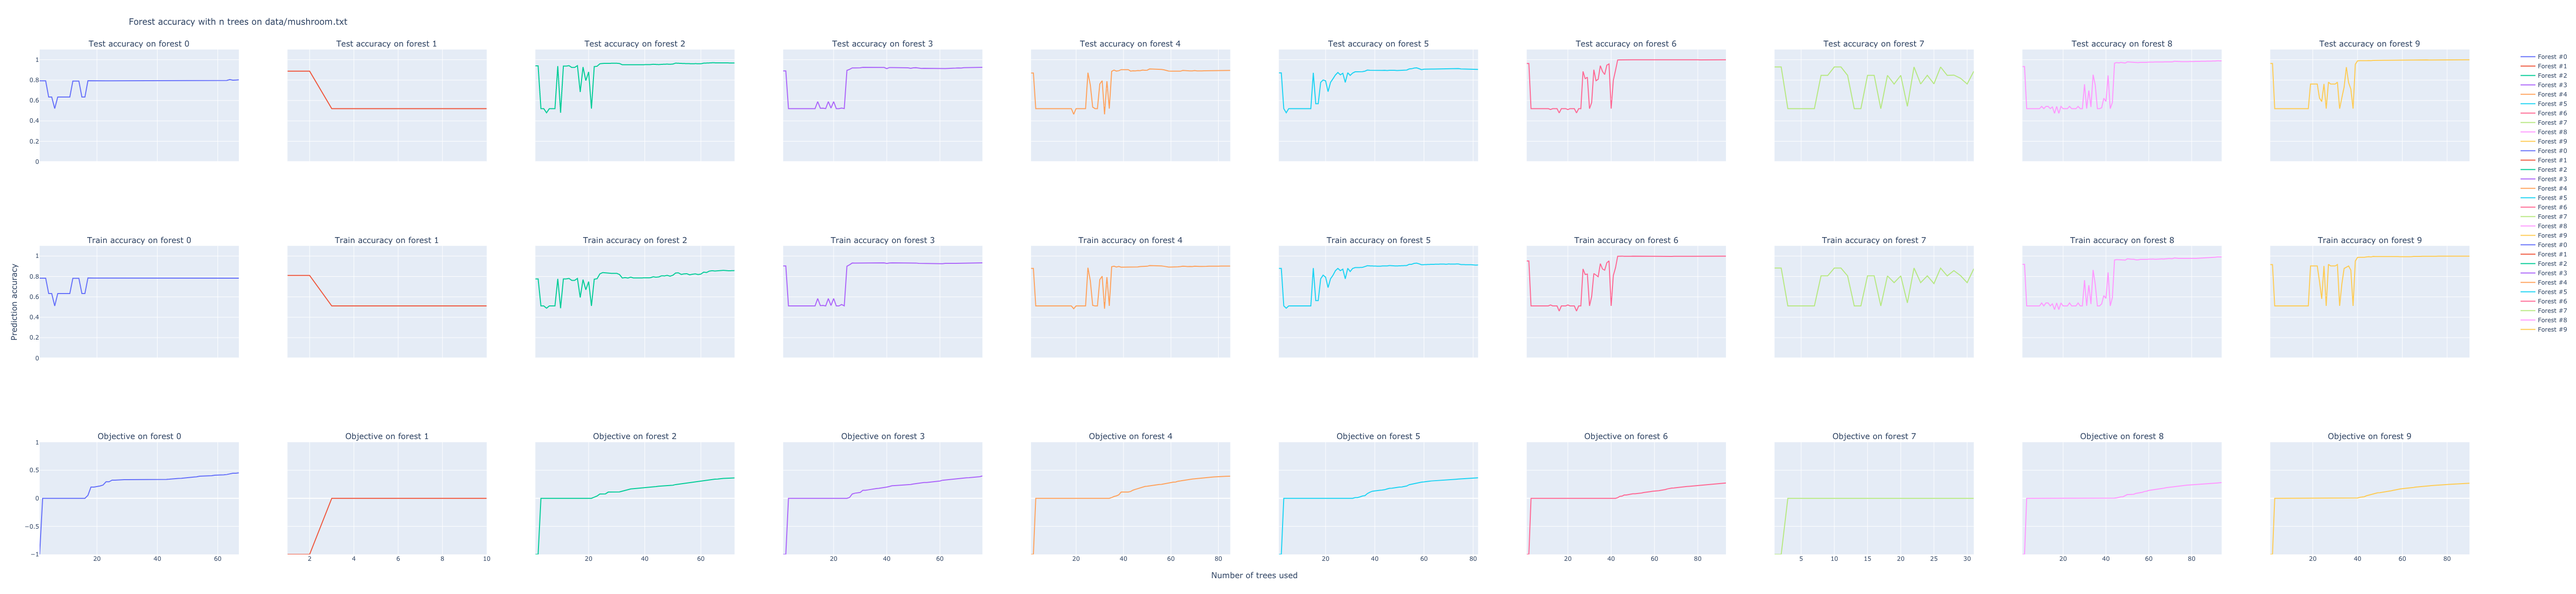
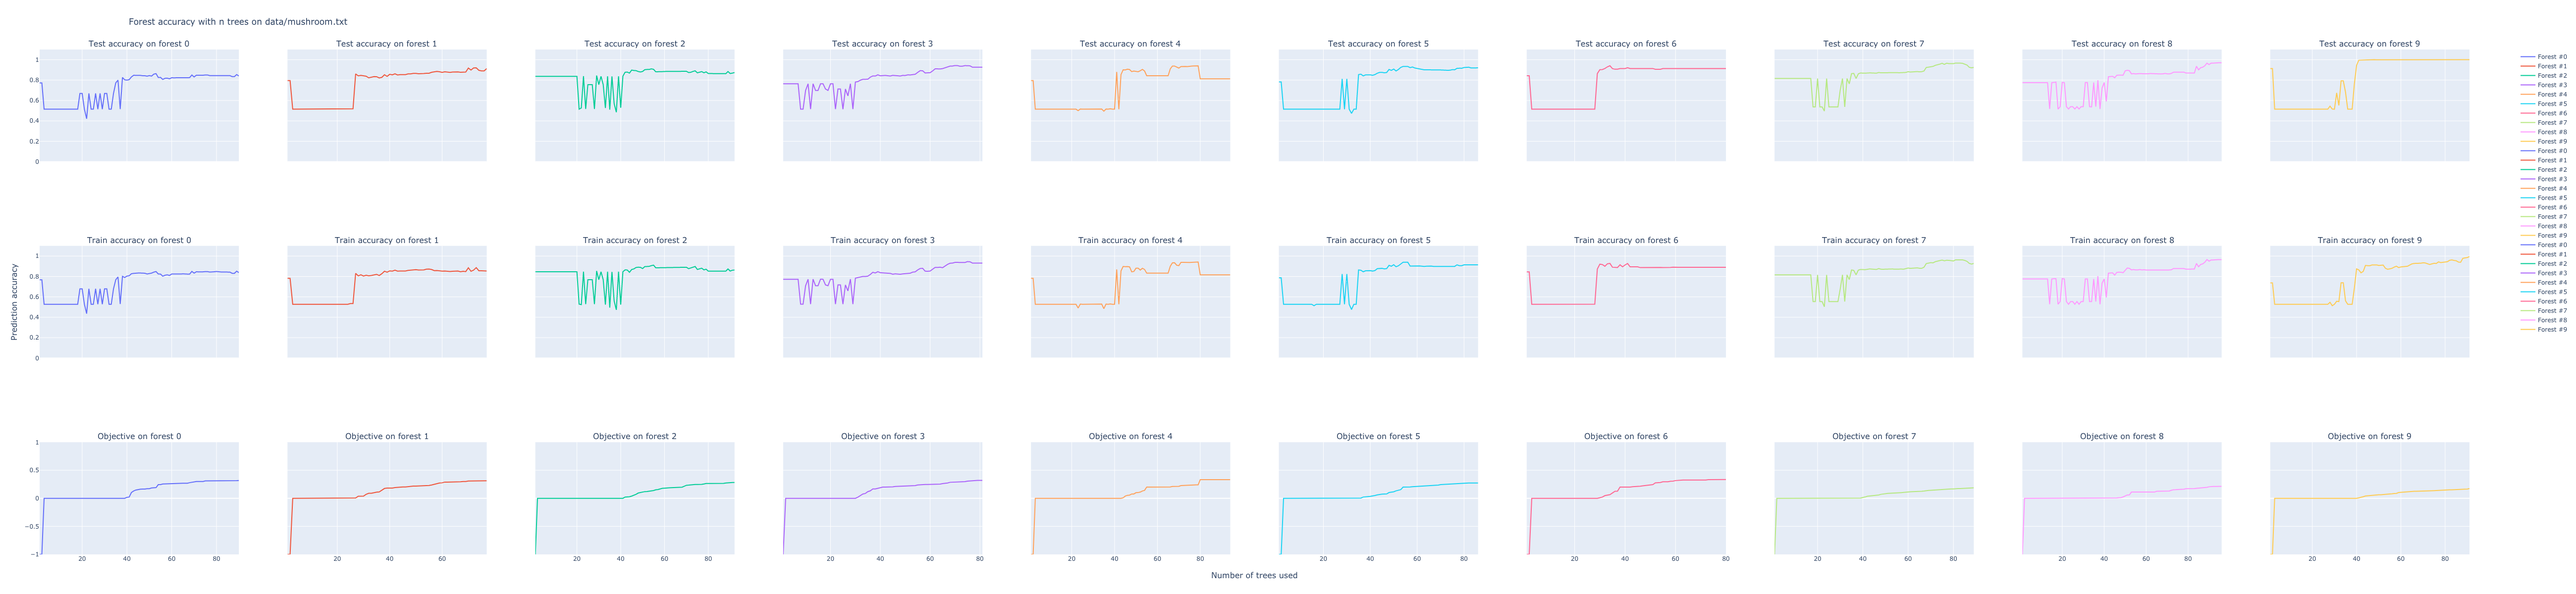
tests

diff --git a/source/utils/learning_manager.py b/source/utils/learning_manager.py
@@ -24,11 +24,12 @@ kwargs = {
     "DL82": {'max_depth': 2},
     "DL8-forest": {'n_estimators': 10, 'max_depth': 3, 'attributes': "all"},
     "DL8-forest2": {'n_estimators': 10, 'max_depth': 2, 'attributes': "all"},
-    "OptDL8-forest": {'n_estimators': 1, 'max_depth': 3, 'method': "all", 'attributes': "progressive"},
-    "OptDL8-forest2": {'n_estimators': 1, 'max_depth': 3, 'method': "all", 'attributes': "progressive",
-                       "time_limit": 60},
-    "OptDL8-forest3": {'n_estimators': 1, 'max_depth': 2, 'method': "all", 'attributes': "progressive",
-                       "tree_limit": 50},
+    "OptDL8-forest": {'n_estimators': 1, 'max_depth': 1, 'method': "all", 'attributes': "progressive",
+                       "tree_limit": 20},
+    "OptDL8-forest2": {'n_estimators': 1, 'max_depth': 2, 'method': "all", 'attributes': "progressive",
+                       "tree_limit": 20},
+    "OptDL8-forest3": {'n_estimators': 1, 'max_depth': 3, 'method': "all", 'attributes': "progressive",
+                       "tree_limit": 20},
     "G-boosting": {'n_estimators': 100, 'max_depth': 3}
 }
 
